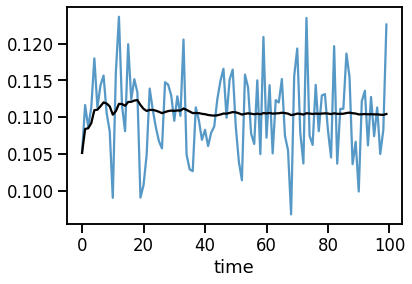
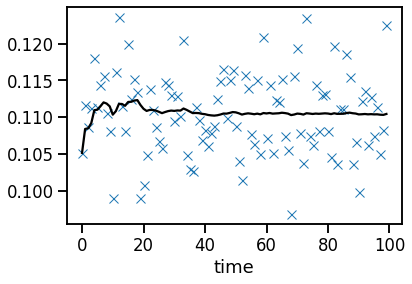
docs | update sampling

Changed region(s): [[0.1748, 0.0282, 0.9612, 0.7887]]

diff --git a/docs/Tutorial/4_statistical_sampling.md b/docs/Tutorial/4_statistical_sampling.md
@@ -238,7 +238,7 @@ ds = xr.load_dataset("trajectory.nc")
 
 p = ds.pressure_potential.to_series() / GPa
 
-ax = p.plot(alpha=0.75)
+ax = p.plot(marker="x", lw=0)
 
 p.expanding().mean().plot(ax=ax, color="k")
 ```
